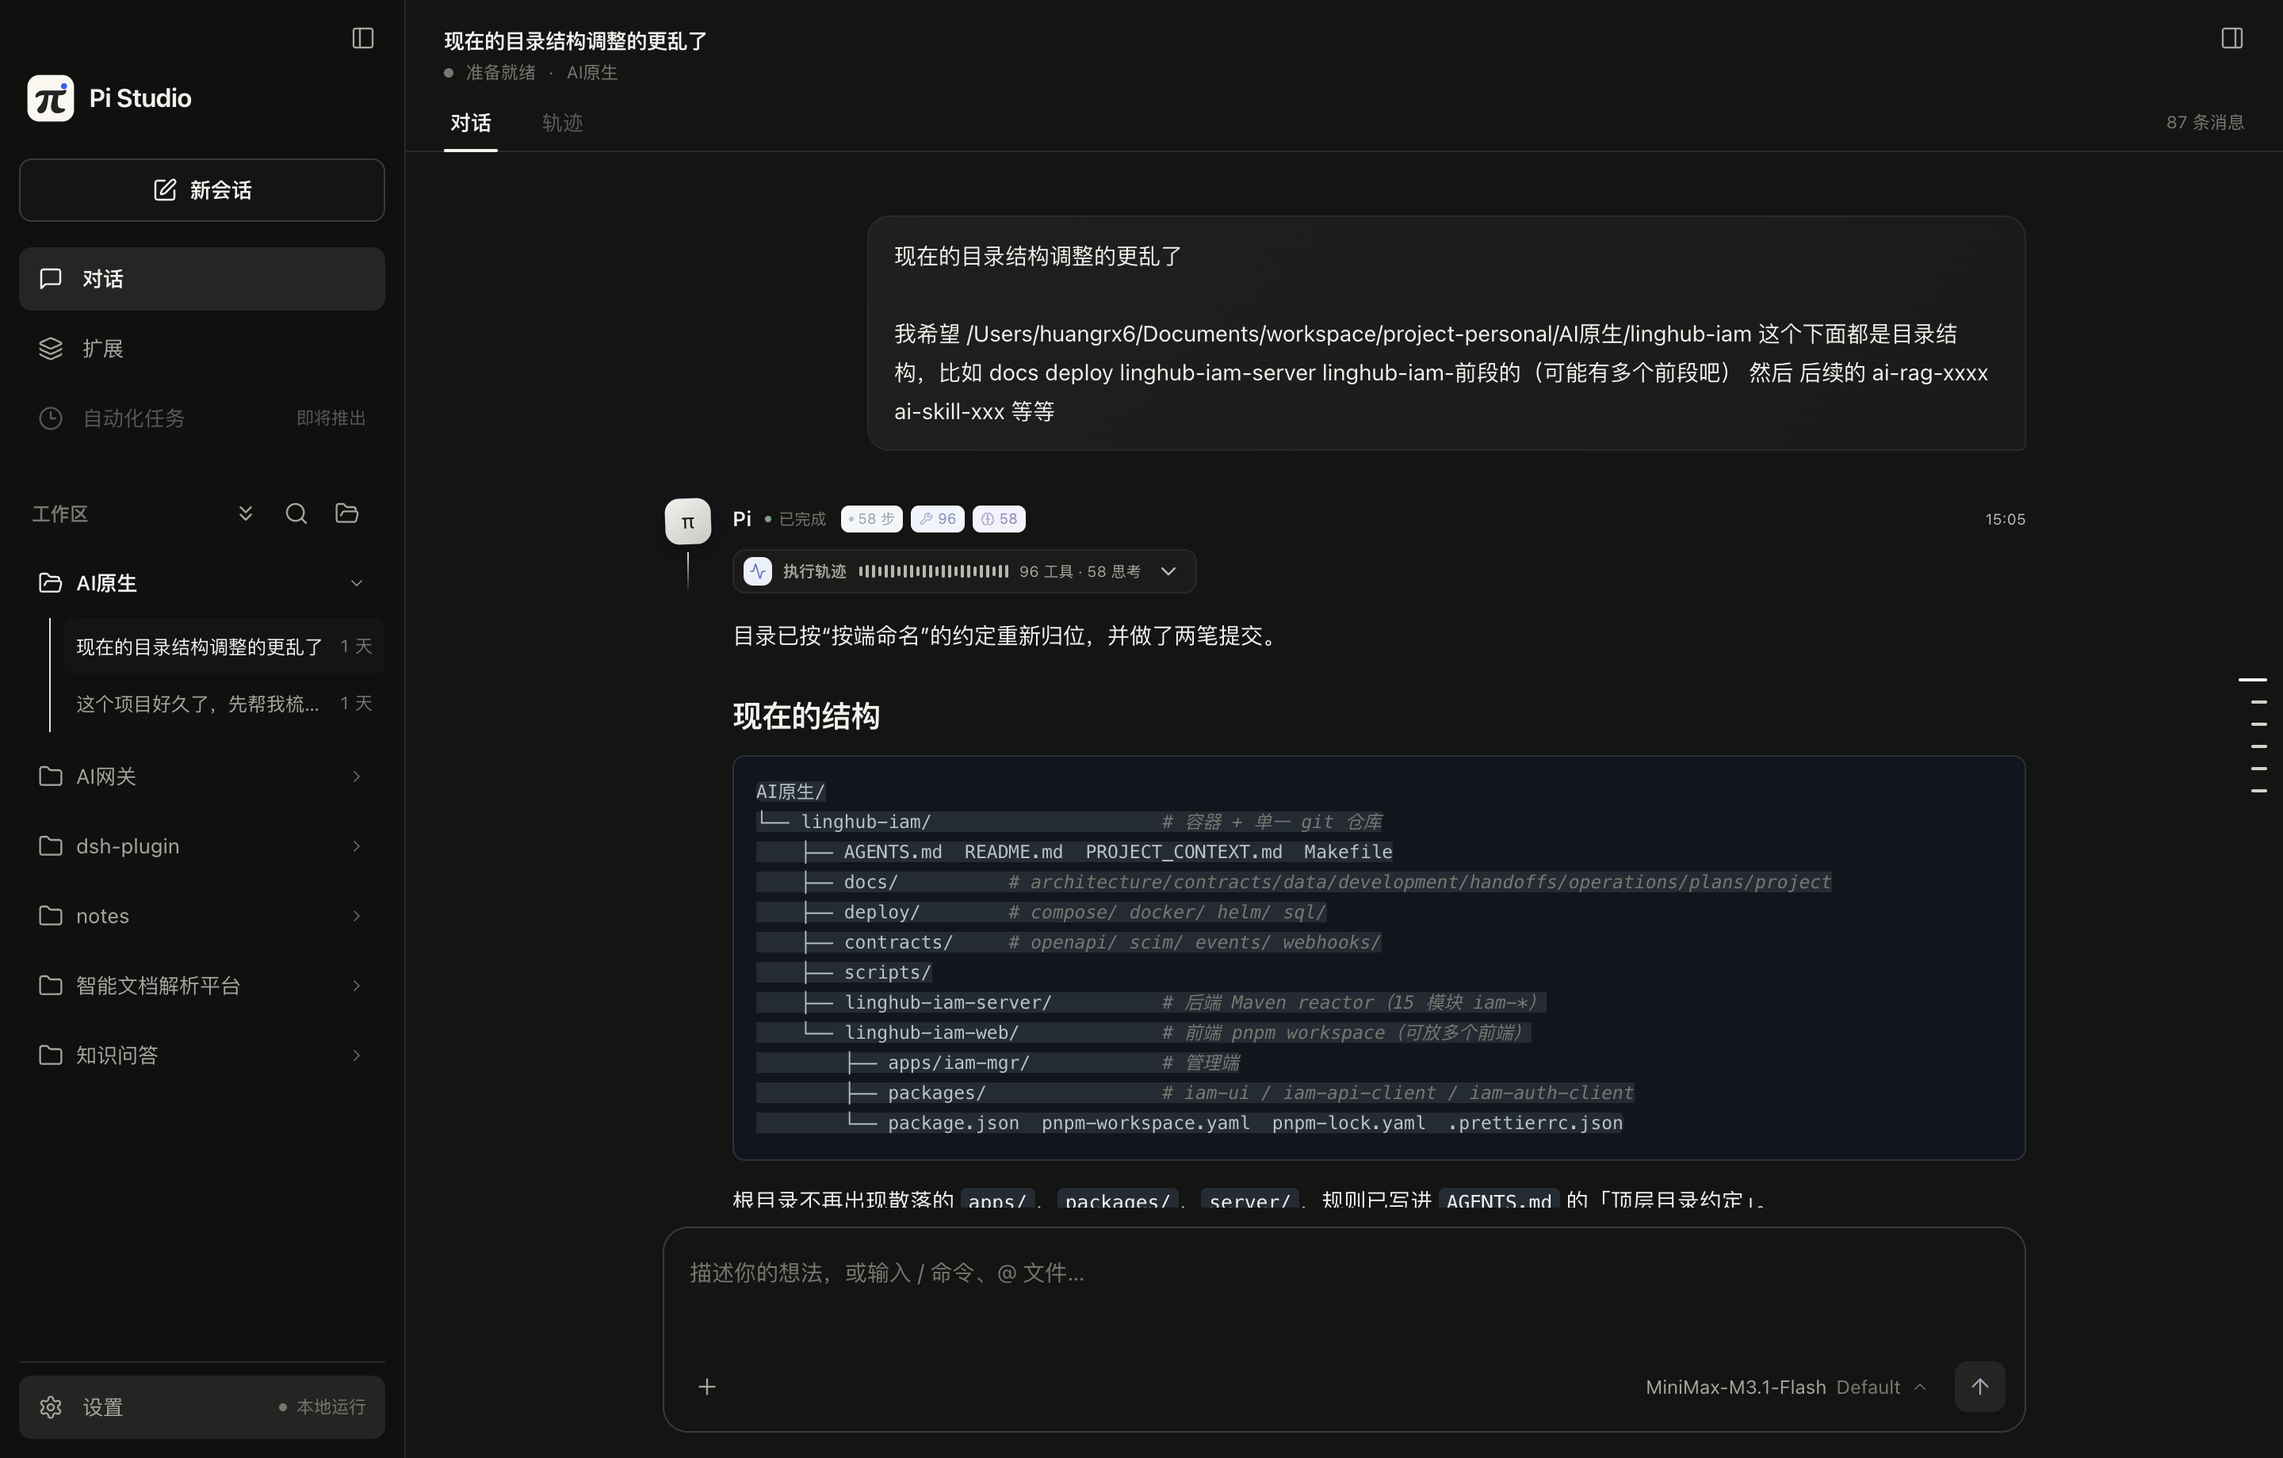
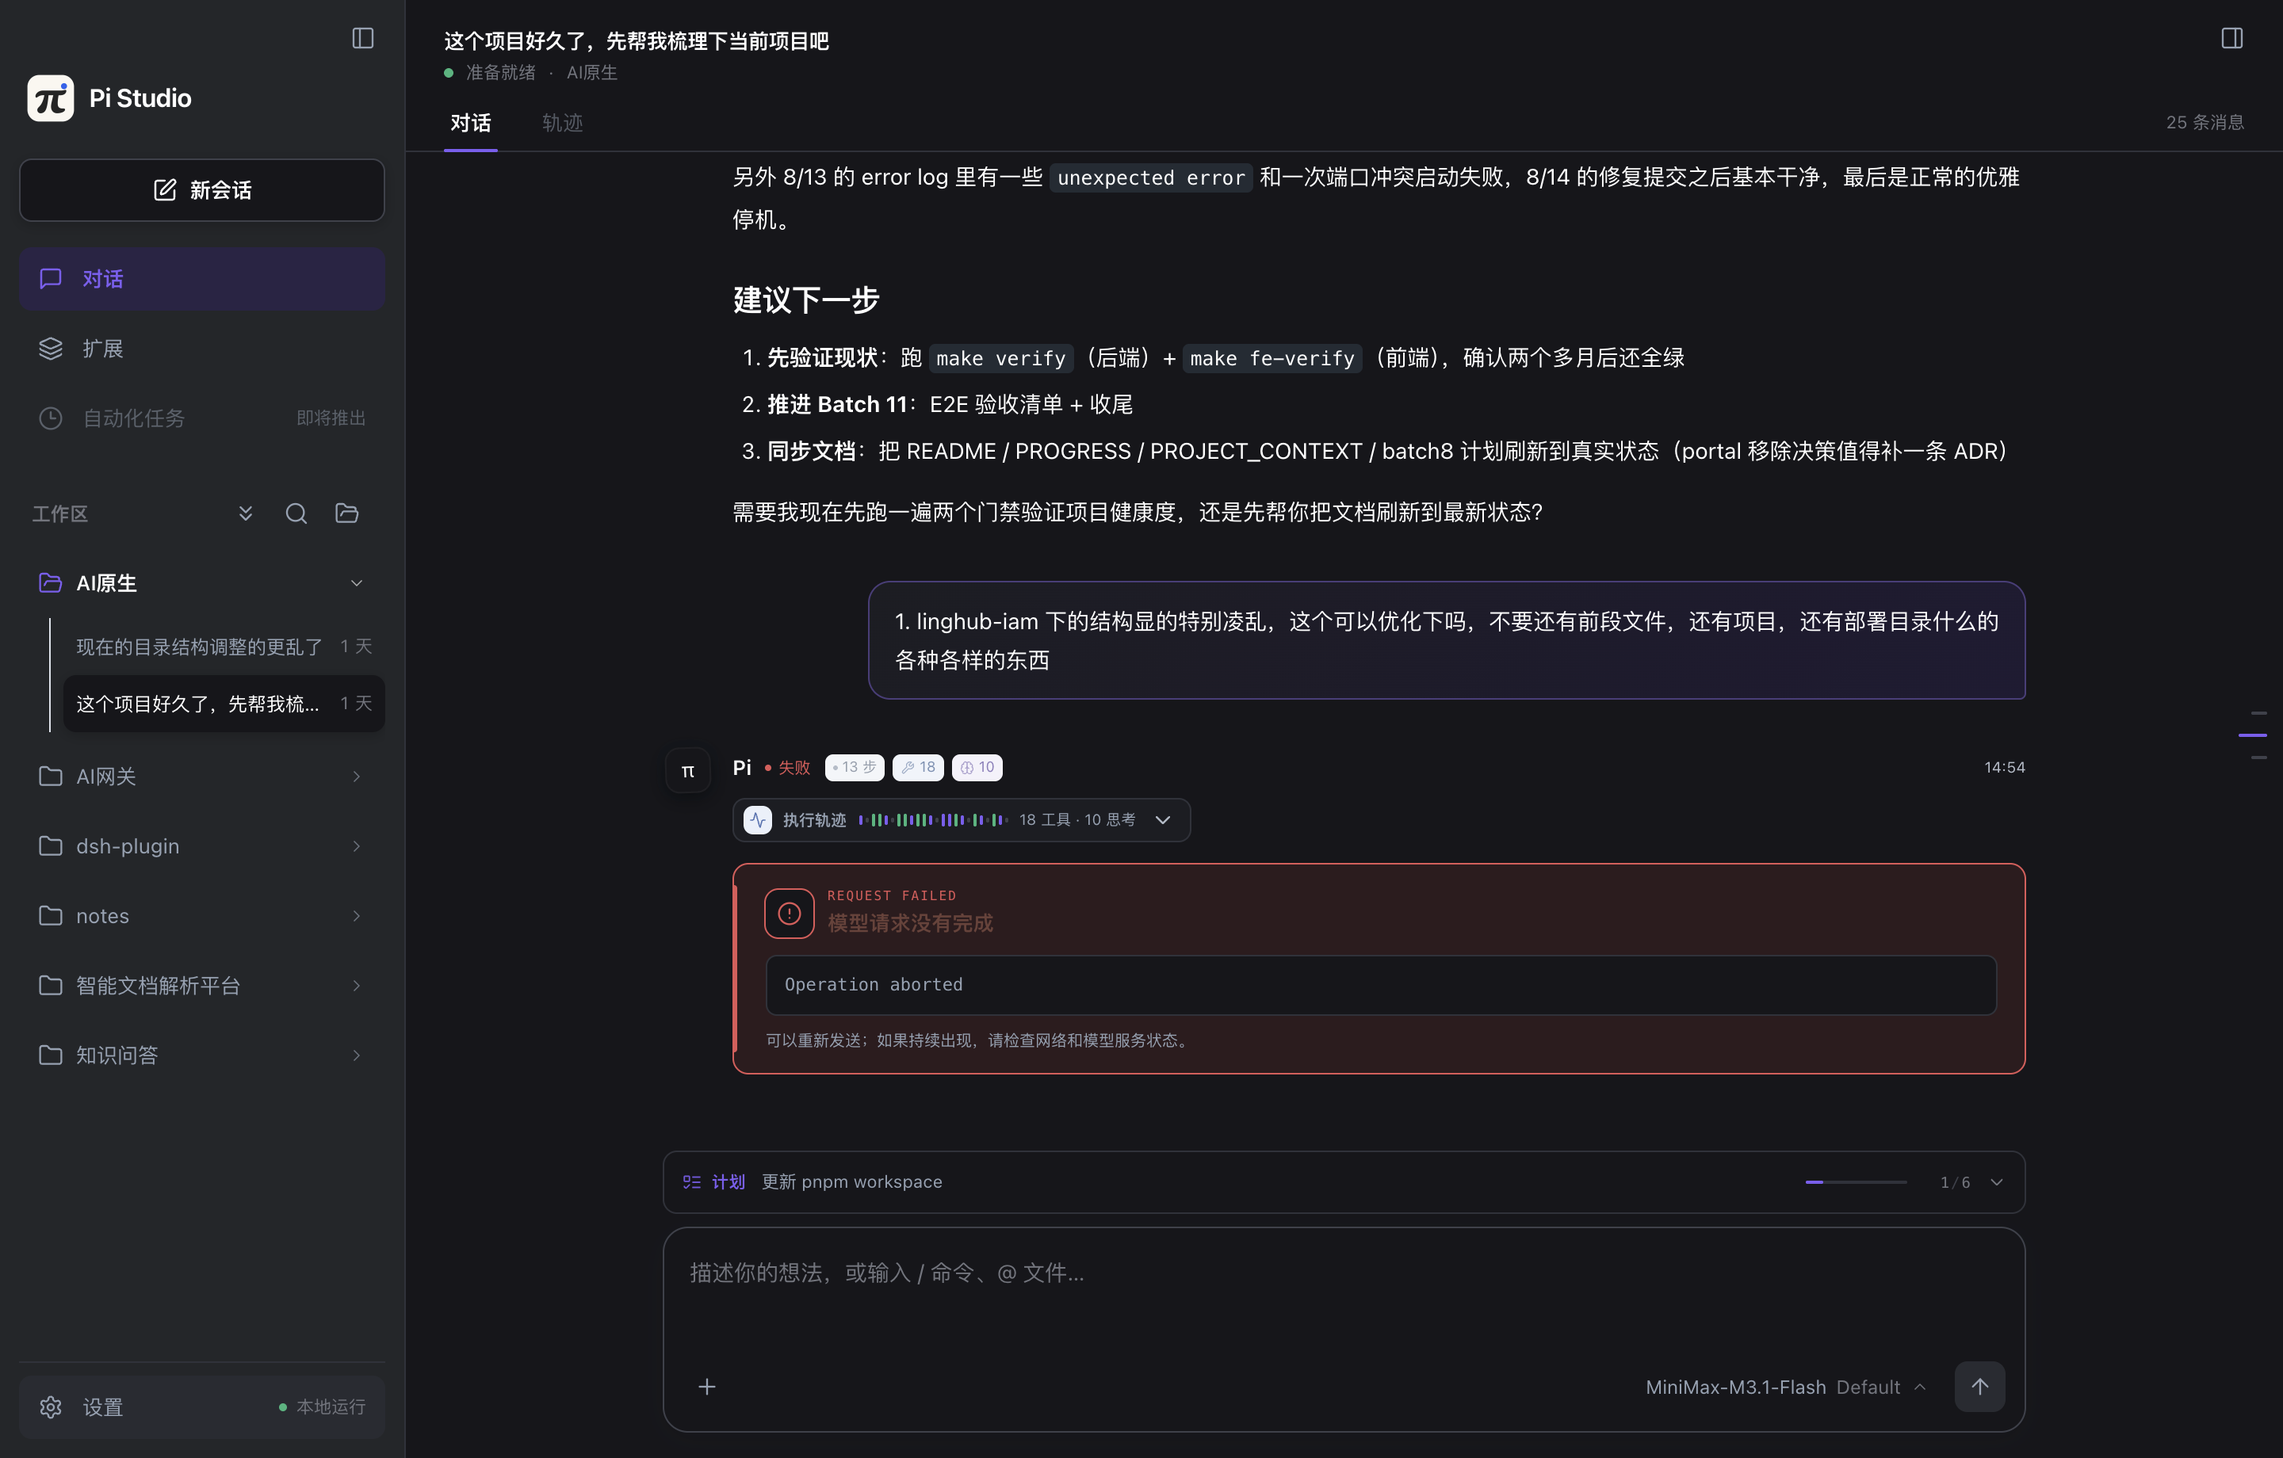
style(theme): 应用薰衣草浅色与炭紫深色配色

diff --git a/web/src/app.css b/web/src/app.css
@@ -1599,3 +1599,173 @@ body *::-webkit-scrollbar-corner { background: transparent; }
 
 /* The note row already renders its own activity node in the gutter. */
 .activity-note::before { content: none; display: none; }
+
+/* Palette v2: light from the lavender / white system, dark from the charcoal / purple system. */
+:root {
+  --bg: #d1d1e9;
+  --surface: #ffffff;
+  --surface-soft: #f1eefb;
+  --surface-hover: #e7e2f7;
+  --surface-active: #ddd5f5;
+  --sidebar-bg: #d1d1e9;
+  --text: #2b2c34;
+  --muted: #5b5b6c;
+  --faint: #7a7a90;
+  --border: #c8c2e4;
+  --border-strong: #b3aad4;
+  --accent: #6246ea;
+  --accent-hover: #4f35d4;
+  --accent-soft: #e9e5ff;
+  --accent-border: #cbc0f7;
+  --on-accent: #ffffff;
+  --secondary: #72757e;
+  --tertiary: #2cb67d;
+  --highlight: #6246ea;
+  --newsletter: #e45858;
+  --success: #2cb67d;
+  --success-soft: #e1f7ee;
+  --error: #e45858;
+  --error-soft: #fdecec;
+  --focus-ring: 0 0 0 3px rgb(98 70 234 / 15%);
+}
+:root[data-theme="dark"] {
+  --bg: #242629;
+  --surface: #16161a;
+  --surface-soft: #1c1d22;
+  --surface-hover: #292b31;
+  --surface-active: #32343b;
+  --sidebar-bg: #242629;
+  --text: #ffffff;
+  --muted: #94a1b2;
+  --faint: #72757e;
+  --border: #30323a;
+  --border-strong: #3e414b;
+  --accent: #7f5af0;
+  --accent-hover: #9273f3;
+  --accent-soft: #2a2345;
+  --accent-border: #4b3c7a;
+  --on-accent: #ffffff;
+  --secondary: #72757e;
+  --tertiary: #2cb67d;
+  --highlight: #7f5af0;
+  --newsletter: #e45858;
+  --success: #2cb67d;
+  --success-soft: #182a23;
+  --error: #e45858;
+  --error-soft: #2e1b1e;
+  --focus-ring: 0 0 0 3px rgb(127 90 240 / 22%);
+}
+body, .main { background: var(--surface); }
+.sidebar, .settings-nav { background: var(--sidebar-bg); }
+.settings-overlay, .settings-content { background: var(--bg); }
+.file-panel, .file-code, .line-number, .panel-tabbar { background: var(--surface); }
+.model-popover, .detail-dialog, .settings-dialog, .status-panel-dialog, .composer-picker { background: var(--surface); }
+.new-chat { background: var(--surface); border-color: var(--border-strong); }
+.new-chat:hover { border-color: var(--accent-border); background: var(--accent-soft); color: var(--accent); }
+.nav-row.is-active, .settings-nav-row.is-active { background: var(--accent-soft); color: var(--accent); }
+.nav-row.is-active > svg, .settings-nav-row.is-active > svg { color: var(--accent); }
+.send-button, .settings-save { background: var(--accent); color: var(--on-accent); }
+.send-button:hover:not(:disabled), .settings-save:hover:not(:disabled) { background: var(--accent-hover); color: var(--on-accent); }
+.dialog-footer .settings-save { background: var(--accent); border-color: var(--accent); color: var(--on-accent); }
+.dialog-footer .settings-save:hover:not(:disabled) { background: var(--accent-hover); border-color: var(--accent-hover); color: var(--on-accent); }
+.composer:focus-within { border-color: var(--accent); box-shadow: var(--focus-ring), 0 4px 20px rgb(98 70 234 / 7%); }
+.chat-loading-line { background: linear-gradient(90deg, transparent, var(--accent), transparent); }
+.panel-tab.is-active { background: var(--accent-soft); color: var(--accent); }
+.model-card.is-active { border-color: var(--accent-border); background: var(--surface); box-shadow: inset 3px 0 0 var(--accent), 0 4px 16px rgb(98 70 234 / 9%); }
+.theme-choice.is-active { border-color: var(--accent-border); background: var(--accent-soft); color: var(--accent); }
+.state-dot, .status i { background: var(--success); }
+.state-dot.is-busy { background: var(--accent); }
+.assistant-orb { background: #2b2c34; color: #ffffff; box-shadow: 0 3px 10px rgb(43 44 52 / 18%), 0 0 0 1px rgb(255 255 255 / 8%) inset; }
+.assistant-turn.is-live .assistant-orb { background: linear-gradient(145deg, var(--accent), #4f35d4); color: #fff; box-shadow: 0 0 0 5px rgb(98 70 234 / 9%), 0 3px 12px rgb(98 70 234 / 24%); }
+.assistant-turn.is-live .assistant-turn-status { color: var(--accent); }
+.assistant-turn.is-live .assistant-turn-status::before { background: var(--accent); box-shadow: 0 0 0 3px rgb(98 70 234 / 12%); }
+.assistant-turn.is-live .assistant-orb::after { border-color: rgb(98 70 234 / 28%); }
+:root[data-theme="dark"] .assistant-orb { background: #16161a; color: #ffffff; }
+:root[data-theme="dark"] .assistant-turn.is-live .assistant-orb { background: linear-gradient(145deg, #7f5af0, #5e3bc7); }
+:root[data-theme="dark"] .assistant-turn.is-live .assistant-turn-status::before { box-shadow: 0 0 0 3px rgb(127 90 240 / 20%); }
+.user-bubble { border-color: var(--border); background: linear-gradient(135deg, #ffffff, #f1eefb); box-shadow: none; }
+:root[data-theme="dark"] .user-bubble { border-color: var(--accent-border); background: linear-gradient(135deg, #1c1d22, #201a33); }
+.markdown a { color: var(--accent); text-decoration-color: var(--accent-border); }
+.markdown blockquote { border-left-color: var(--accent); background: linear-gradient(90deg, var(--accent-soft), transparent); }
+.markdown pre { border-color: var(--border); background: var(--surface-soft); }
+.markdown code { background: var(--surface-soft); }
+.markdown .hljs-keyword, .markdown .hljs-selector-tag, .markdown .hljs-built_in,
+.markdown .hljs-title, .markdown .hljs-function, .markdown .hljs-variable,
+.markdown .hljs-params { color: var(--accent); }
+.markdown .hljs-string, .markdown .hljs-attr, .markdown .hljs-template-variable,
+.markdown .hljs-name, .markdown .hljs-addition { color: var(--tertiary); }
+.markdown .hljs-number, .markdown .hljs-literal, .markdown .hljs-type { color: var(--newsletter); }
+.markdown .hljs-comment, .markdown .hljs-quote { color: var(--faint); }
+.assistant-response .markdown h1, .assistant-response .markdown h2 { color: var(--text); }
+.assistant-response .markdown pre { border-color: var(--border); background: var(--surface-soft); }
+.assistant-response .markdown code { background: var(--surface-soft); }
+.thinking-symbol, .activity-node.is-thinking, .thinking-block summary { color: var(--accent); background: var(--accent-soft); border-color: var(--accent-border); }
+.activity-node.is-thinking { box-shadow: 0 0 0 1px var(--accent-border); }
+.activity-thinking-label { color: var(--accent); }
+.activity-thinking-body { border-left-color: var(--accent-border); background: var(--accent-soft); }
+.activity-thinking-body .markdown, .thinking-content .markdown { color: var(--muted); }
+.activity-node.tone-shell { color: var(--tertiary); background: var(--success-soft); box-shadow: 0 0 0 1px var(--success); }
+.activity-node.tone-read, .activity-node.tone-search { color: var(--secondary); background: var(--surface-soft); box-shadow: 0 0 0 1px var(--border-strong); }
+.activity-node.tone-edit, .activity-node.tone-tool { color: var(--accent); background: var(--accent-soft); box-shadow: 0 0 0 1px var(--accent-border); }
+.activity-tool { border-color: var(--border); background: var(--surface); }
+.activity-tool:hover { border-color: var(--accent-border); background: var(--surface); }
+.activity-tool-status, .activity-tool.is-done .activity-tool-status { color: var(--tertiary); }
+.activity-tool.is-running .activity-tool-status { color: var(--accent); background: var(--accent-soft); }
+.activity-tool.is-error .activity-tool-status { color: var(--error); background: var(--error-soft); }
+.activity-tool-code { background: var(--surface-soft); border-color: var(--border); }
+.activity-tool-code.is-error { color: var(--error); background: var(--error-soft); }
+.activity-pulse i { background: var(--border-strong); }
+.activity-pulse i.is-thinking, .activity-pulse i.tone-edit, .activity-pulse i.tone-tool { background: var(--accent); }
+.activity-pulse i.tone-shell { background: var(--tertiary); }
+.activity-pulse i.tone-read, .activity-pulse i.tone-search { background: var(--secondary); }
+.activity-pulse i.is-note { background: var(--border-strong); }
+.activity-summary, .activity-title { color: var(--muted); }
+.attachment-icon, .attachment-icon.is-image, .attachment-icon.is-code, .attachment-icon.is-archive, .attachment-icon.is-sheet, .attachment-icon.is-doc, .attachment-icon.is-generic { color: var(--accent); background: var(--accent-soft); }
+.attachment-kind, .attachment-kind.is-code, .attachment-kind.is-archive, .attachment-kind.is-sheet, .attachment-kind.is-doc { color: var(--muted); background: var(--surface-soft); }
+.attachment-card, .composer-attachment { background: var(--surface); border-color: var(--border); }
+.composer-attachment > button { background: var(--surface); border-color: var(--border); color: var(--muted); }
+.assistant-error, .error-card { border-color: var(--error); background: var(--error-soft); box-shadow: none; }
+.assistant-error::before, .error-card::before { background: var(--error); }
+.assistant-error-mark { color: var(--error); background: var(--surface); box-shadow: 0 0 0 1px var(--error); }
+.assistant-error-kicker, .assistant-error-code { color: var(--error); border-color: var(--border); }
+.assistant-error-message { border-color: var(--border); background: var(--surface); color: var(--muted); }
+.assistant-error-foot { color: var(--muted); }
+.outline-line { background: var(--border-strong); }
+.outline-tick:hover .outline-line { background: var(--accent); }
+.outline-tick.is-active .outline-line { background: var(--accent); }
+.outline-preview { border-color: var(--border); background: var(--surface); }
+.outline-preview::after { border-color: var(--border); background: var(--surface); }
+.outline-preview-role::before { background: var(--accent); }
+.extension-footer-line > svg:first-child { color: var(--accent); }
+::selection { background: var(--accent-soft); }
+:root[data-theme="dark"] ::selection { background: #3b2c63; }
+:root[data-theme="dark"] .nav-row.is-active, :root[data-theme="dark"] .settings-nav-row.is-active { background: var(--accent-soft); color: var(--accent); }
+:root[data-theme="dark"] .model-card.is-active { background: var(--surface-soft); box-shadow: inset 3px 0 0 var(--accent); }
+:root[data-theme="dark"] .assistant-error, :root[data-theme="dark"] .error-card { background: var(--error-soft); border-color: var(--error); }
+:root[data-theme="dark"] .assistant-error-message { background: var(--surface); border-color: var(--border); color: var(--muted); }
+:root[data-theme="dark"] .composer { background: var(--surface); border-color: var(--border-strong); }
+:root[data-theme="dark"] .markdown pre, :root[data-theme="dark"] .activity-tool-code { background: var(--surface-soft); border-color: var(--border); }
+:root[data-theme="dark"] .markdown code { background: var(--surface-soft); }
+:root[data-theme="dark"] .thinking-block summary, :root[data-theme="dark"] .activity-tool { background: var(--surface); border-color: var(--border); }
+:root[data-theme="dark"] .activity-drawer > summary { background: var(--surface-soft); border-color: var(--border); }
+:root[data-theme="dark"] .file-code, :root[data-theme="dark"] .line-number { background: var(--surface); }
+.todo-dock { background: var(--surface); border-color: var(--border); box-shadow: 0 2px 8px rgb(43 44 52 / 4%); }
+.todo-dock-head:hover { background: var(--surface-soft); }
+.todo-dock-title { color: var(--accent); }
+.todo-dock-meter i { background: var(--accent); }
+.todo-row.is-active { background: var(--accent-soft); box-shadow: 0 0 0 1px var(--accent-border); color: var(--text); }
+.todo-row.is-active .todo-row-icon { color: var(--accent); }
+.todo-row.is-complete .todo-row-icon { color: var(--tertiary); }
+.todo-row.is-complete .todo-row-subject { color: var(--muted); }
+.todo-dock.is-live .todo-dock-title svg { color: var(--accent); }
+.queued-panel-title { color: var(--accent); }
+.queued-panel-title svg { color: var(--accent); }
+.queued-send-all { color: var(--accent); }
+.queued-actions button:hover { color: var(--accent); background: var(--accent-soft); }
+.queued-actions button:first-child:hover { color: var(--accent); }
+.queued-item { border-color: var(--border); background: var(--surface); }
+.queued-send-all:hover { color: var(--accent-hover); }
+.extension-footer-line { color: var(--muted); }
+.extension-footer-line:hover { background: var(--surface-soft); color: var(--accent); }
+.extension-footer-line > svg:first-child { color: var(--accent); }
+.status-panel-body pre { background: var(--surface-soft); border-color: var(--border); }

diff --git a/web/src/styles/tokens.css b/web/src/styles/tokens.css
@@ -1,25 +1,29 @@
 /* Shared dimensions and surfaces for the whole desktop workspace. */
 :root {
-  --bg: #f4f4f2;
+  --bg: #d1d1e9;
   --surface: #ffffff;
-  --surface-soft: #f6f6f4;
-  --surface-hover: #eeeeeb;
-  --surface-active: #e6e6e2;
-  --sidebar-bg: #f0f0ee;
-  --text: #191918;
-  --muted: #5f5f5b;
-  --faint: #898984;
-  --border: #e4e4e0;
-  --border-strong: #d0d0cb;
-  --accent: #1d1d1b;
-  --accent-hover: #000000;
-  --accent-soft: #ededeb;
-  --accent-border: #d8d8d3;
+  --surface-soft: #f1eefb;
+  --surface-hover: #e7e2f7;
+  --surface-active: #ddd5f5;
+  --sidebar-bg: #d1d1e9;
+  --text: #2b2c34;
+  --muted: #5b5b6c;
+  --faint: #7a7a90;
+  --border: #c8c2e4;
+  --border-strong: #b3aad4;
+  --accent: #6246ea;
+  --accent-hover: #4f35d4;
+  --accent-soft: #e9e5ff;
+  --accent-border: #cbc0f7;
   --on-accent: #ffffff;
-  --success: #4f5b53;
-  --success-soft: #eef2ef;
-  --error: #8a4b45;
-  --error-soft: #f8f0ef;
+  --secondary: #72757e;
+  --tertiary: #2cb67d;
+  --highlight: #6246ea;
+  --newsletter: #e45858;
+  --success: #2cb67d;
+  --success-soft: #e1f7ee;
+  --error: #e45858;
+  --error-soft: #fdecec;
   --space-1: 4px;
   --space-2: 8px;
   --space-3: 12px;
@@ -47,9 +51,9 @@
   --settings-content: 1040px;
   --header-height: 48px;
   --toolbar-height: 36px;
-  --shadow-card: 0 2px 8px rgb(20 20 18 / 3%);
-  --shadow-popover: 0 14px 42px rgb(20 20 18 / 12%), 0 2px 8px rgb(20 20 18 / 4%);
-  --focus-ring: 0 0 0 3px rgb(0 0 0 / 7%);
+  --shadow-card: 0 2px 8px rgb(43 44 52 / 5%);
+  --shadow-popover: 0 14px 42px rgb(43 44 52 / 14%), 0 2px 8px rgb(43 44 52 / 5%);
+  --focus-ring: 0 0 0 3px rgb(98 70 234 / 15%);
   --transition: 160ms ease;
   --font: -apple-system, BlinkMacSystemFont, "SF Pro Text", "Segoe UI", "PingFang SC", "Hiragino Sans GB", "Microsoft YaHei", sans-serif;
   --display-font: "Songti SC", "STSong", "Noto Serif SC", "Source Han Serif SC", "Times New Roman", serif;
